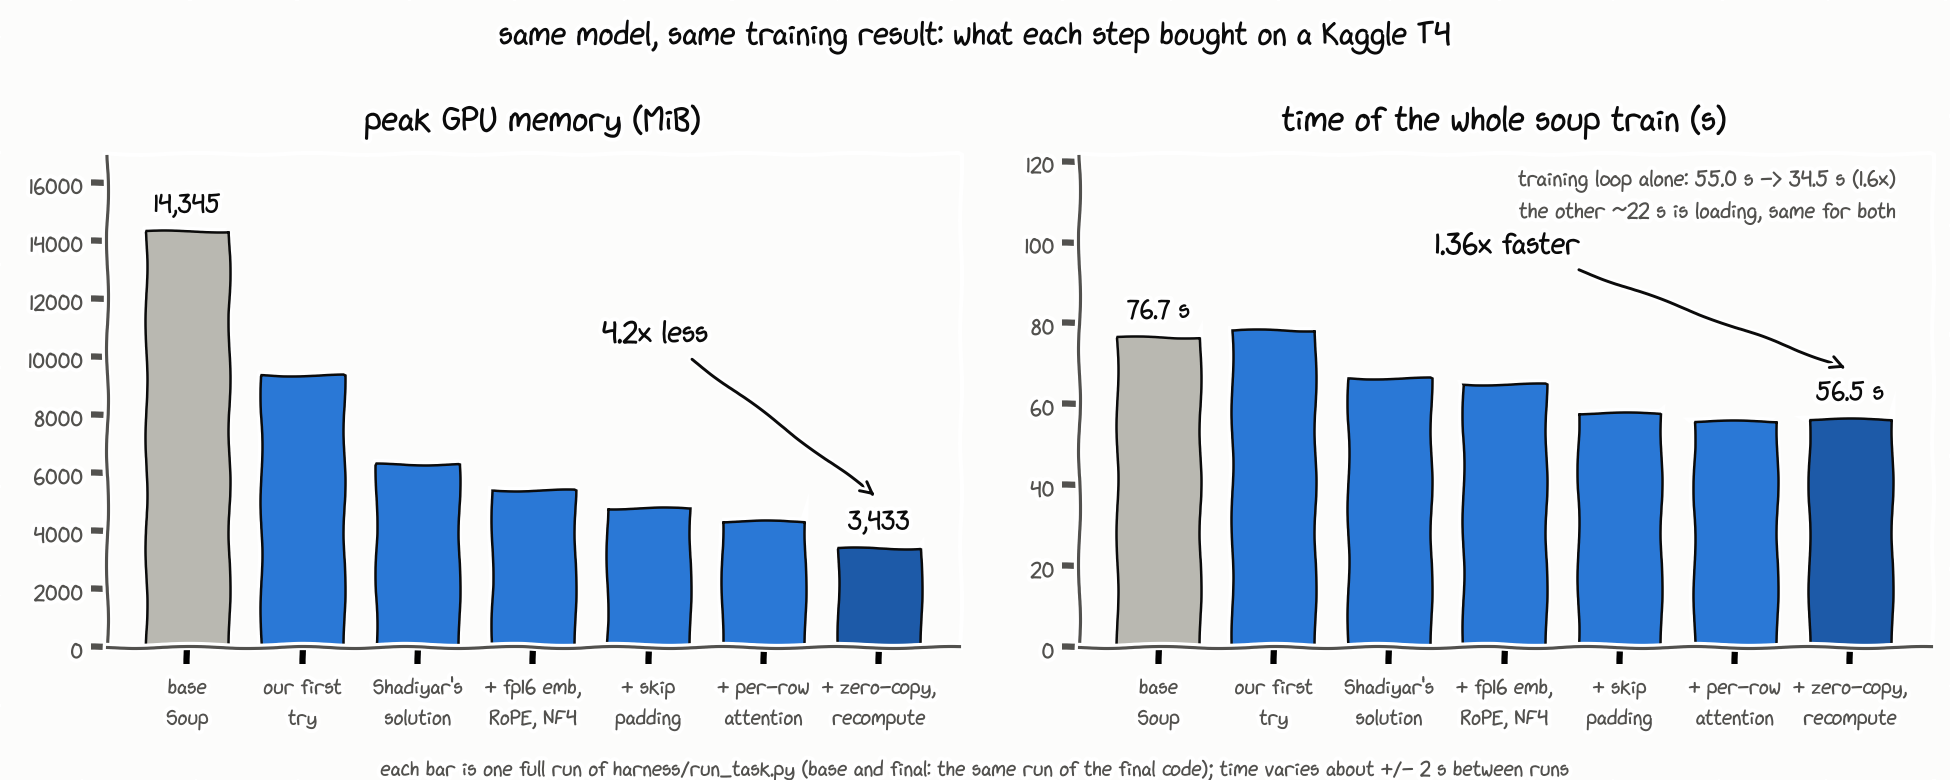
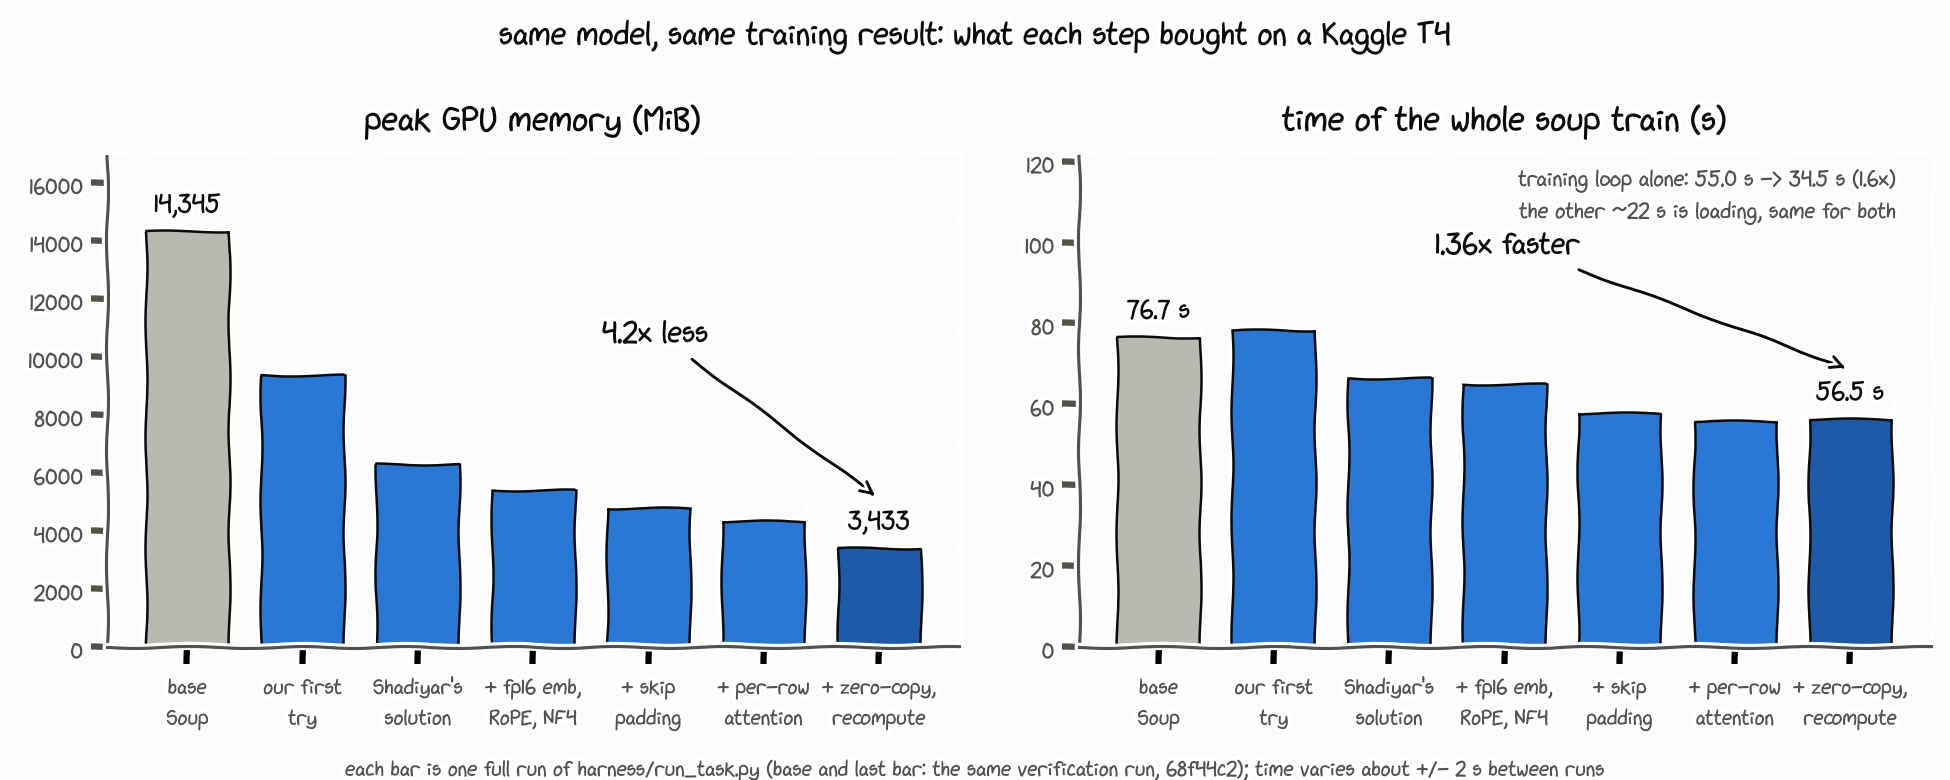
Final README and SUBMISSION: public Kaggle run, links, kernel shares

Changed region(s): [[0.1538, 0.9538, 0.8308, 1.0]]

diff --git a/SUBMISSION.md b/SUBMISSION.md
@@ -1,9 +1,10 @@
 # Submission: NaVi
 
 ## Links
-- Repository, final commit: https://github.com/BAITC-Hacks/hack-4df528e9-navi/commit/TODO
+- Repository, final commit of the code: https://github.com/BAITC-Hacks/hack-4df528e9-navi/commit/8e63d40ec6e1165aaac782d429aa758546ad2b2d
+  (later commits only update README.md and SUBMISSION.md; `solution/` is unchanged)
 - Public Kaggle notebook, the saved version (`COMMIT` in it = the sha above; the same link is in our
-  README): https://www.kaggle.com/code/yerser/TODO?scriptVersionId=TODO
+  README): https://www.kaggle.com/code/yerser/notebookf01887514d
 - Demo video (up to 3 minutes): TODO
 - Presentation: TODO
 
@@ -11,23 +12,24 @@
 | Name | Role | GitHub | Kaggle | Contact (captain) |
 |---|---|---|---|---|
 | Yerkhan Serik | captain: padding removal, per-row and zero-copy attention, MLP recompute cap, NF4 unpack on both passes, RoPE, fp16 embedding, kernel-share fix; profiling, verification, README | evilandangry | yerser | Telegram @metalballadlover |
-| Shadiyar Musin | starting point: fused LM head + loss, fp16 norm path, first NF4 kernel; fused add-norm | — | — | |
-| Madiyar Komilzhonov | presentation | — | — | |
-| Mansur Utepbergen | team member | — | — | |
+| Shadiyar Musin | starting point: fused LM head + loss, fp16 norm path, first NF4 kernel; fused add-norm | shadiarmusin-eng | — | |
+| Madiyar Komilzhonov | presentation | forces57 | — | |
+| Mansur Utepbergen | team member | utepbergenovmansur68 | — | |
 
 ## Our kernels
-Check 4 reports the total share of our kernels: 11.8 % of the training time on the final
-code (limit 5 %). The per-kernel split below is from the GPU profile of the final code
-(16 profiled steps, `run_task.py --profile`).
-<!-- TODO: fill the per-kernel % from the final profile run -->
+Check 4 reported 12.0 % of the training time for our kernels in the saved notebook run of the final
+code `8e63d40` (12.4 % in an earlier run of the same code; limit 5 %). The split below is from that
+earlier run's `runs/result.json` (`own_kernel_ms`, CUDA events over the timed
+steps 3–64, 25.53 s): each kernel's time divided by that. These add up to 12.9 %; the check computes
+its total slightly differently. The example's SwiGLU kernels (883 ms) are not counted.
 
 | Kernel (`@triton.jit` name) | File | What it replaces | Share of the training time (check 4) |
 |---|---|---|---|
-| `_head_ce` | `solution/head_loss.py` | LM head logits + log-softmax + NLL + entropy + argmax and their backward, chunked; the 2,048 × 151,936 logits table is never stored | TODO % |
-| `_nf4_unpack` | `solution/nf4.py` | bitsandbytes' NF4 unpack (scale decode + weights) for the forward and backward matmuls of every 4-bit layer | TODO % |
-| `_rms_fwd`, `_rms_bwd` | `solution/rmsnorm.py` | Qwen2 RMSNorm (about six PyTorch ops per call), fp16 output for the projections | TODO % |
-| `_add_rms_fwd`, `_add_rms_bwd` | `solution/rmsnorm.py` | residual add + post-attention RMSNorm, plus the gradient add in the backward pass | TODO % |
-| `rope_kernel` | `solution/rope.py` | rotary embedding (`rotate_half`, cat, multiplies, add) for q and k, forward and backward | TODO % |
+| `_head_ce` | `solution/head_loss.py` | LM head logits + log-softmax + NLL + entropy + argmax and their backward, chunked; the 2,048 × 151,936 logits table is never stored | 0.8 % (214 ms) |
+| `_nf4_unpack` | `solution/nf4.py` | bitsandbytes' NF4 unpack (scale decode + weights) for the forward and backward matmuls of every 4-bit layer | 9.0 % (2,295 ms) |
+| `_rms_fwd`, `_rms_bwd` | `solution/rmsnorm.py` | Qwen2 RMSNorm (about six PyTorch ops per call), fp16 output for the projections | 0.7 % (170 ms) |
+| `_add_rms_fwd`, `_add_rms_bwd` | `solution/rmsnorm.py` | residual add + post-attention RMSNorm, plus the gradient add in the backward pass | 1.3 % (323 ms) |
+| `rope_kernel` | `solution/rope.py` | rotary embedding (`rotate_half`, cat, multiplies, add) for q and k, forward and backward | 1.1 % (287 ms) |
 
 Not launched in a normal run (fallbacks if the fused head path cannot run): `_ce_fwd`, `_ce_bwd`,
 `_entropy_fwd` in `solution/fused_ce.py`. `solution/swiglu.py` is the challenge's example, still
@@ -41,12 +43,14 @@ Liger Kernel (https://github.com/linkedin/Liger-Kernel) and Apple's Cut Cross-En
 https://arxiv.org/abs/1604.06174); the NF4 format (QLoRA, https://arxiv.org/abs/2305.14314).
 
 ## Results on Kaggle T4 (from `runs/result.json` and `runs/checks.json` of the notebook above)
-<!-- these are from the verification run of 68f44c2; replace with the saved notebook's run if it differs -->
 | | Base Soup | Ours | Ratio |
 |---|---|---|---|
-| Time of `soup train`, s | 76.68 | 56.53 | speedup 1.356x |
-| Peak GPU memory, MiB | 14,345 | 3,433 | base/ours 4.179x |
-| Eval loss (public rows) | 2.04968 | 2.04950 | -0.009 % vs base |
+| Time of `soup train`, s | 86.8 | 56.4 | speedup 1.539x |
+| Peak GPU memory, MiB | 14,345 | 3,399 | base/ours 4.220x |
+| Eval loss (public rows) | 2.04964 | 2.04954 | -0.005 % vs base |
+
+The base was slow in this run: over our 19 runs its time ranged 75.9–88.0 s (median 78.0 s), so on
+a typical run expect about 1.4× (1.38× against the median).
 
 - [x] All 10 checks of `harness/check_rules.py` passed
 - [x] README.md rewritten for our solution: what we did, how to run it, results, limits
